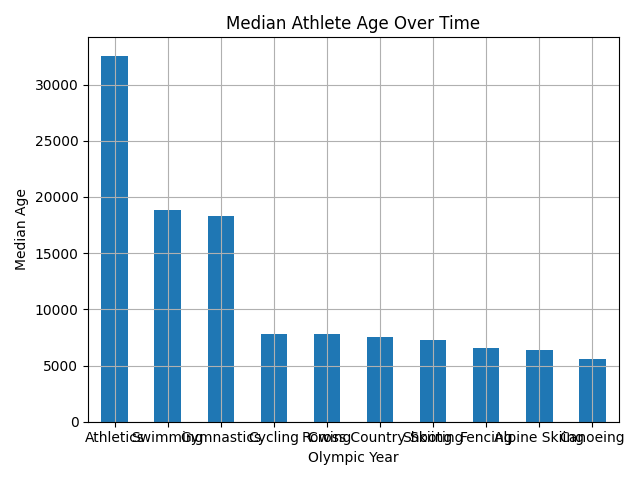
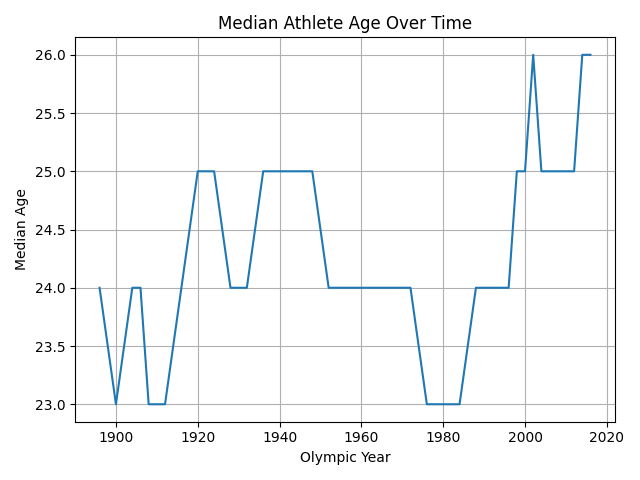
finished debugging

diff --git a/Week_5/a6_clone_main.py b/Week_5/a6_clone_main.py
@@ -1,0 +1,16 @@
+import matplotlib.pyplot as plt
+
+import pandas as pd
+
+df = pd.read_csv("Week_4/athlete_events_cleaned.csv")
+
+median_age = df.groupby('Year')['Age'].median()
+
+median_age.plot(kind='line', title='Median Athlete Age Over Time')
+plt.xlabel('Olympic Year')
+plt.ylabel('Median Age')
+plt.grid(True)
+plt.tight_layout()
+plt.savefig("median_age_line.png")
+plt.show()
+

diff --git a/Week_5/a6_main.py b/Week_5/a6_main.py
@@ -13,13 +13,3 @@ plt.xticks(rotation=45)
 plt.tight_layout()
 plt.savefig("top_10_sports.png")
 plt.show()
-
-median_age = df.groupby('Year')['Age'].median()
-
-median_age.plot(kind='line', title='Median Athlete Age Over Time')
-plt.xlabel('Olympic Year')
-plt.ylabel('Median Age')
-plt.grid(True)
-plt.tight_layout()
-plt.savefig("median_age_line.png")
-plt.show()

diff --git a/practical_journal.md b/practical_journal.md
@@ -98,4 +98,7 @@ Done in a4_main
 - The title accurately describes what is shown
 
 ### A6-A3
-- CODE BUGGED
+- There is a fluctuating trend in the graph
+- This graph suggests that there have been multiple changes in athelete demographics, but overall, the ages are very similar
+
+### A6-A4
